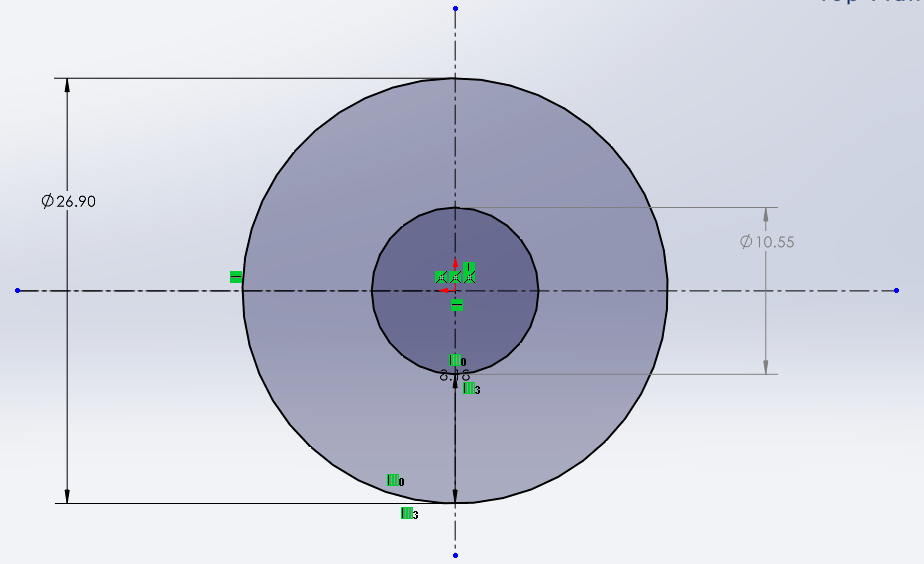
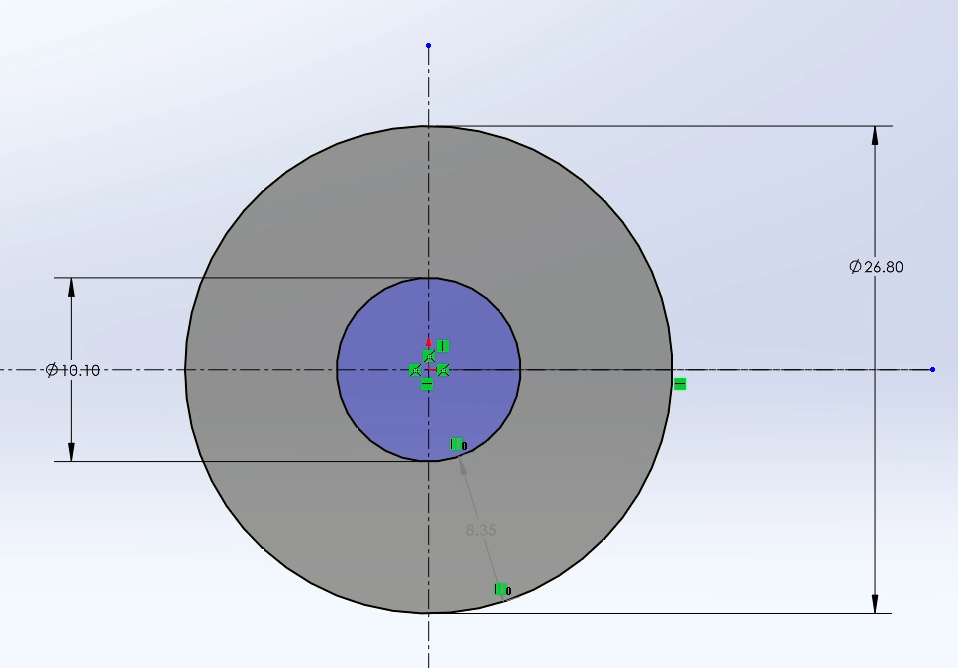
F1 Documentation V3 (WIP)

diff --git a/_bme66/F1SyringeCAD.md b/_bme66/F1SyringeCAD.md
@@ -13,6 +13,7 @@ sidebar:
   - [Syringe Guide](#syringe-guide)
   - [Tube Shell](#tube-shell)
   - [Conic Endcap](#conic-endcap)
+- [Assembly!](#assembly)
 
 ## Initial Goals
 In my research at the Kaplan Lab, I work on fabricating gel-spun catheters made of _Bombyx mori_ silk. The solution that I use is quite viscous, but I have to extrude it through a syringe onto a rotating mandrel - so any bubbles that get trapped in the solution presents issues with heterogeneity of the final fabrication. I usually remove these bubbles by spinning down the solution via centrifugation, but all the centrifuges I've used are constructed for 50 mL Falcon tubes rather than 3 mL syringes. Thus, I thought I would use this CAD assignment as a excuse to 3D print a scaffold that could hold my syringe in place during the centrifuging process.
@@ -27,51 +28,69 @@ To make the "holder", I decided to CAD 4 different parts in SolidWorks and combi
 2. A syringe guide to ensure the syringe remains perfectly upright
 3. A shell that mimics the cylindrical section of the Falcon tube
 4. A shell that mimics the conical section of the Falcon tube and supports the assembly (to make sure it doesn't collapse during centrifugation)
-**[UPDATE SCREENSHOTS TO NEW SKETCH DIMENSIONS]**
 
 ### Syringe Rest
 To create the syringe rest, I first sketched a circle with a 0.1 mm tolerance with respect to the original tube, offset an inner circle to hold the syringe barrel, and traced a mirrored trapezoidal shape that fits the measurements I took of the syringe "crossguard":
 
-![SolidWorks sketch of the syringe rest before extrusion](/assets/images/F1/Syringe%20TopPlate%20Sketch.png)
+![Sketch of the syringe rest before extrusion](/assets/images/F1/Syringe%20TopPlate%20Sketch.png)
 
 When it came to dimensions, I built relations between all the relevant shapes, but left the holder for the crossguard and both circles independent, without defined relations.
  This was quite difficult to learn - I actually increased the tolerance once while going back through everything, and realized that my relations didn't actually adjust the dimensions that I wanted to adjust. I had to re-dimension and re-do all my relations to make sure that everything matched together after my changes. 
  {: .notice}
 Thus, if I need to add more tolerance into the outer ring, I can do so while leaving all of the other dimensions intact.  I extruded the outer ring by 3mm and the crossguard rest by 1.5 mm to create this 3D shape:
 
-![SolidWorks extrude of the syringe rest after sketching](/assets/images/F1/Syringe%20TopPlate%20Extrude.png)
+![Extrude of the syringe rest after sketching](/assets/images/F1/Syringe%20TopPlate%20Extrude.png)
 
 One part down, 3 more to go!
 
 ### Syringe Guide
 To ensure that the syringe rests perfectly upright, I decided to make another rest similar to my first one, with slightly different dimensions. As shown in my measurements, the syringe barrel is actually slightly thinner than the top - so I adjusted the dimensioning of my sketches accordingly:
-![SolidWorks sketch for the syringe guide](/assets/images/F1/Syringe%20Guide%20Sketch.png)
 
-I extruded this guide by 3 mm as well:
-![SolidWorks extrude for the syringe guide](/assets/images/F1/Syringe%20Guide%20Extrude.png)
+| CAD Sketch |  3mm Extrude |
+:-------------------------:|:-------------------------:
+![Sketch for syringe guide](/assets/images/F1/Syringe%20Guide%20Sketch.png) | ![Extrude for syringe guide](/assets/images/F1/Syringe%20Guide%20Extrude.png)
 
-Easy syringe guide that I'll place a bit lower than the top plate in the final assembly. That was the easy part.
+There's a simple syringe guide that I'll place a bit lower than the top plate in the final assembly. Annnd...that was the easy part.
 
 ### Tube Shell
 I wanted to make a shell that was just a _bit_ smaller than the normal Falcon tube to support the two guides I had made. However, I didn't want to just make it a big cylinder - since this scaffold is probably going to get centrifuged at 9000x G, I thought that reducing as much weight as possible while retaining compressive strength would be ideal. After making a 85 mm tall extruded cylinder that was 2 mm thick (which I later edited to be 3.5 mm thick and 80 mm tall) from my tube measurements, I decided to try and make a pattern of some sort to cut from the cylinder.
 
 My first idea was to cut out a helical shape, to create a "spring" that would absorb force, since PLA plastic is reasonably flexible. I tried this initially using a helix shape:
+
 ![Failed helix shape to cut into the original cylinder](/assets/images/F1/FailedHelix.png) 
 
 I soon realized that this was not as easy as I thought it would be, since sweeping a pattern across a helix required moving sketch planes in 3D space (which I still cannot do easily, I need more practice/figure out a better way to move these sketch planes around). So, I abandoned this idea and decided to go for a different approach: patterned triangular cuts.
 {: .notice}
 
 In the Front plane, I sketched out this parallelogram-ish triangular shape:
-![SolidWorks sketch of the shape as a pattern](/assets/images//F1/Mesh%20Pattern%20Sketch.png) that I then extruded into an extrude cut on the cylindrical surface of my shell. To make sure that I could get even spacing, I did a bit of math to dimension my pattern such that 7 repetitions of the pattern would perfectly space the patterns across the cylinder. Using the circpattern tool, I pattnered the parallleogram as so:
-![Extrude cut of the parallelogram into the cylinder](/assets/images/F1/CircPattern%20(After%20ExtrudeCut).png)
+![Sketch of the cutting shape as a pattern](/assets/images//F1/Mesh%20Pattern%20Sketch.png) that I then extruded into an extrude cut on the cylindrical surface of my shell. To make sure that I could get even spacing, I did a bit of math to dimension my pattern such that 7 repetitions of the pattern would perfectly space the patterns across the cylinder. Using the circpattern tool, I pattnered the parallleogram across the face of the cylinder, and then I used the linear pattern with a 4 mm offset (to preserve the 2 mm margins at the top and bottom of the cylinder) to extend this pattern down the shell. At the end, I had something like this:
 
-and then I used the linear pattern with a 4 mm offset (to preserve the 2 mm margins at the top and bottom of the cylinder) to extend this pattern down the shell. At the end, I had something like this:
-![Final patterned tubular shell with triangular cutouts](/assets/images/F1/LinCirc%20Pattern.png)
+| Initial Extrude Cut | Final Shell Pattern |
+:---: | :---:
+![Extrude cut of the parallelogram into the cylinder](/assets/images/F1/CircPattern%20(After%20ExtrudeCut).png) | ![Final patterned tubular shell with triangular cutouts](/assets/images/F1/LinCirc%20Pattern.png)
+
+To put a place for the endcap I'm about to make, I also closed off the bottom of the cylinder with a 2mm cap:
+![Cylindrical cap for conic end for mating](/assets/images/F1/CapCylinder.png)
 
 ### Conic Endcap
 To make sure that this entire assembly doesn't just sink into the bottom of the tube when it's being centrifuged, I decided to make a conic endcap using the dimensions I measured. It's notable that these dimensions were significantly more difficult to measure with the calipers (the height of a cone doesn't have easy line-up points for caliper teeth), so I'm anticipating that I'll have to edit this section later on. 
 
-**[TAKE PICTURES OF SKETCHES HERE]**
+First off, I created a "frustum-shell" that was designed to mesh with the original cylindrical shell, making it 3D via revolution:
+![frustum shell sketch and revolution preview](/assets/images/F1/RevolveConeSupSketch.png)
 
-OUTLINE
-Create 2 mm wide cylinder to hold guides in place that is 4 mm less than the total height of the Falcon tube as measured. Cut triangular holes in the tube to reduce material/weight while maintaining compressive strength for centrifuge. This was done using linpattern and circpattern, with a 4 mm offset at the bottom of the cylinder. See attached.  
+To do the similar "weight-cutting" mechanism as previous, I decided to cut a pattern similar to the cylindrical shell, using the same mechanism:
+|Initial Cutting Pattern Sketch| Extrude Cut & 3X Circular Patterning |
+:---: | :--: 
+| ![Sketch of the cutting pattern for frustum shell](/assets/images/F1/RevolveConeExtrudeCutSketch.PNG)| ![Cut frustum shell after circular patterning](/assets/images/F1/CutCone.PNG)
+
+I still had concerns about the assembly collapsing under strain, so I decided to make one more support in the middle of the cone using the "loft" feature to build a mini-frustum. The dimensions of this part are also a little arbitrary, since I didn't have a good rationale for a calculation. The loft operation itself is made of two circles on different sketch planes, along with a line connecting them as a guide curve:
+|Support Frustum (Loft Operation) | Full Final Product |
+:---: | :--: 
+| ![Isometric view of the support after the loft operation](/assets/images/F1/ConeLoftSupport.PNG)| ![Final Conic Endcap](/assets/images/F1/FinalEndSupport.PNG)
+
+## Assembly!
+Now that all of my parts have been made, it's quite simple to assemble them together. After importing all of my parts into a new SolidWorks "assembly", I "mated" them together primarily by using 3D coincident relations, which lined up two edges perfectly together as so:
+![Example of coincident relation mating](/assets/images/F1/ConeCylinderMate.png)
+After doing this with all the parts (including the syringe guide, which I mated to one of my extrude cut patterns), the final product:
+![Final Product](/assets/images/F1/Final.png)
+
